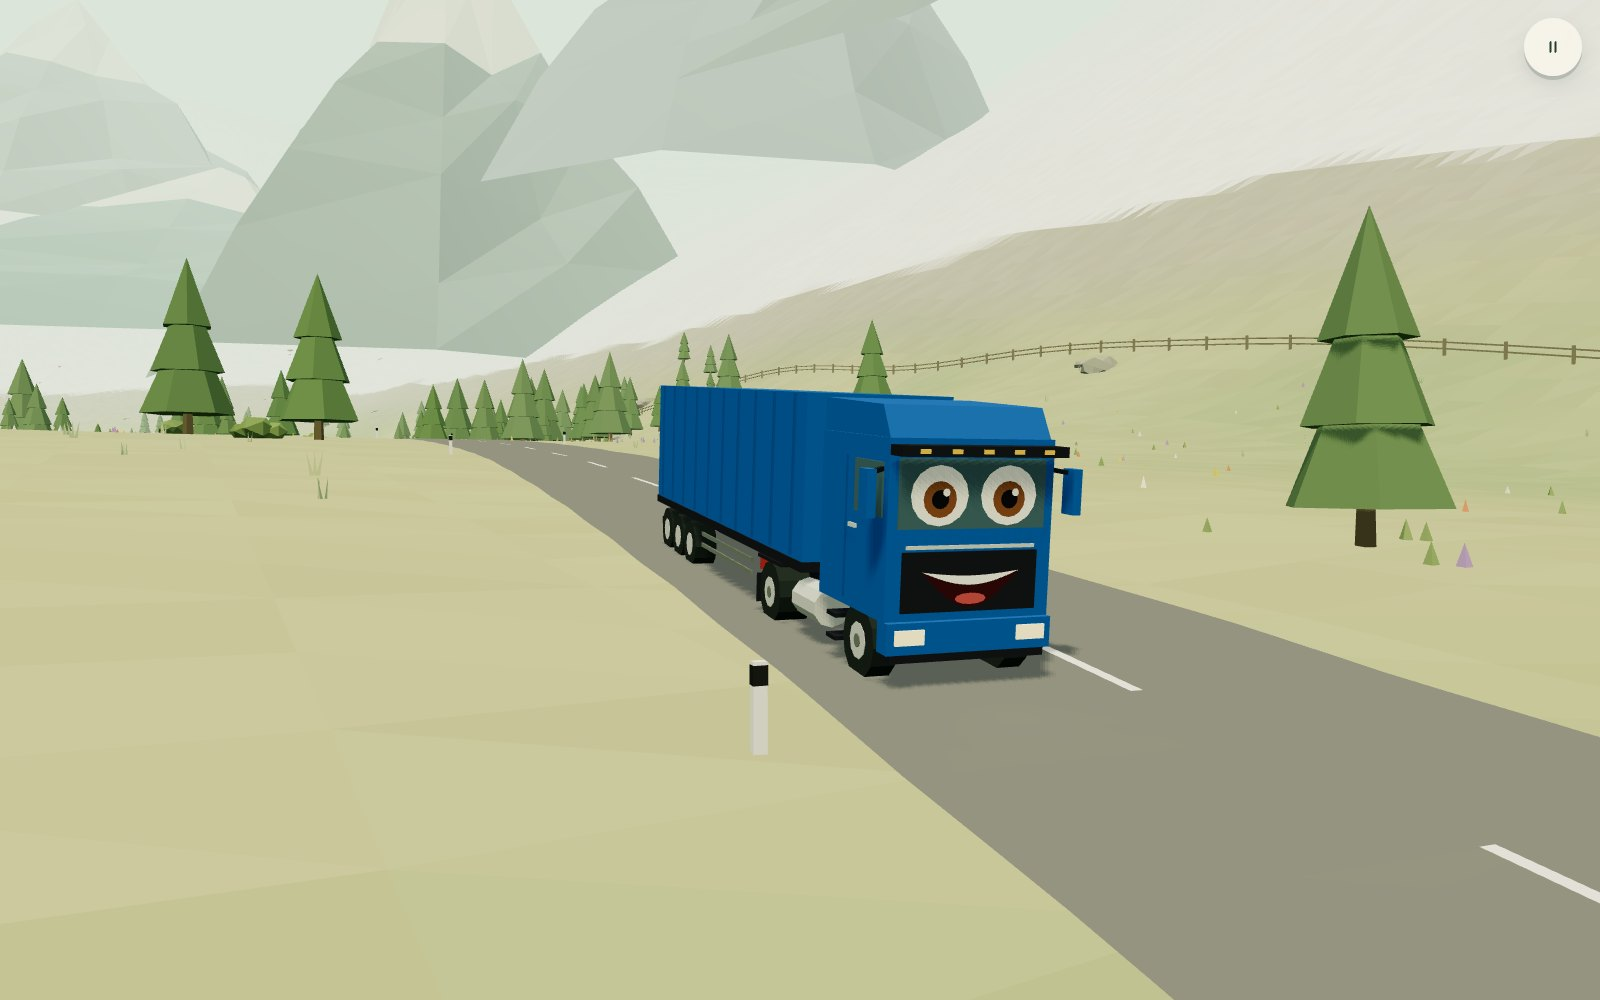
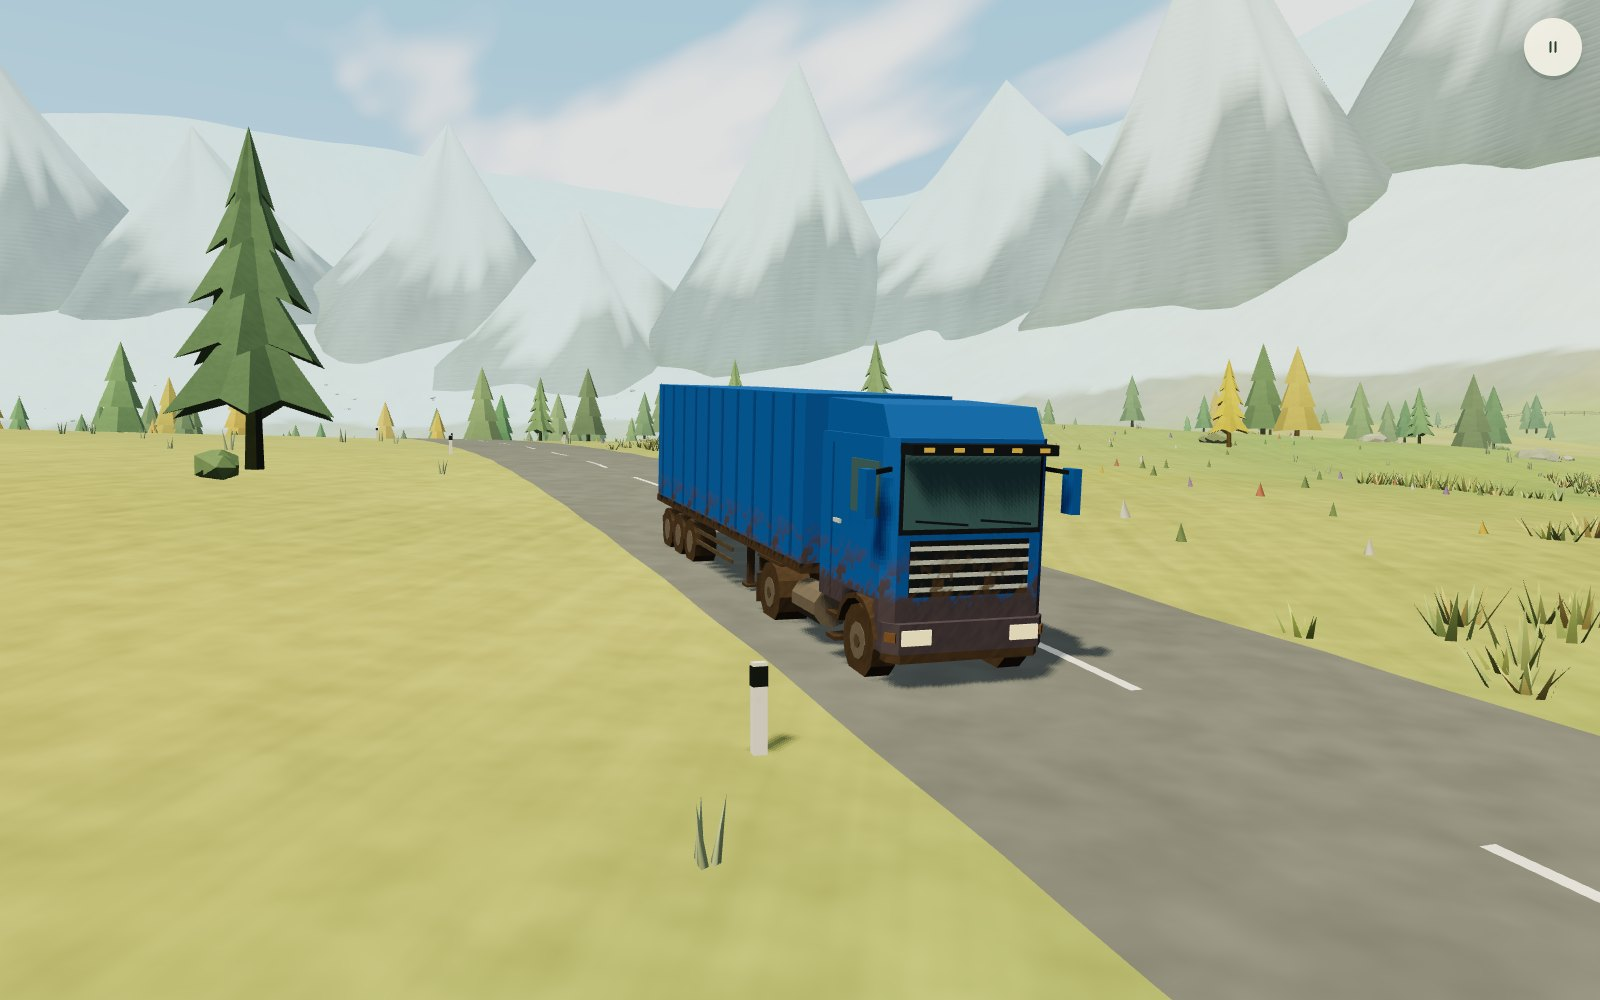
Update the README and its screenshots for the deep ford, the mud hole and the tractor, the depot, the marked trails, the cars without faces, the roadworks off the upland road and the animals that run aside

diff --git a/README.md b/README.md
@@ -39,6 +39,14 @@ Play it at [nowhere-to-be.jarkovsky.com](https://nowhere-to-be.jarkovsky.com).
   <img src="docs/combine.jpg" width="49%" alt="A combine harvester cutting the wheat at the upland farm">
 </p>
 <p>
+  <img src="docs/ford.jpg" width="49%" alt="Wading through the deep ford in the hollow, with a bow wave and a wake">
+  <img src="docs/tow.jpg" width="49%" alt="Stuck in the mud hole below the farm while the red tractor pulls the car out on a rope">
+</p>
+<p>
+  <img src="docs/depot.jpg" width="49%" alt="The depot, with an arrow over each vehicle that can come along">
+  <img src="docs/viewpoint.jpg" width="49%" alt="At the end of the blue trail the camera swings out over the lake">
+</p>
+<p>
   <img src="docs/lorry.jpg" width="49%" alt="Oliver, a blue lorry with a trailer, on the upland road">
   <img src="docs/rally.jpg" width="49%" alt="A rally car on the track up to the summit">
 </p>
@@ -63,7 +71,7 @@ Play it at [nowhere-to-be.jarkovsky.com](https://nowhere-to-be.jarkovsky.com).
 | Pause          | `Esc`                | ❚❚ button, top right               |
 | Back to start  | `R`                  | Home button in the menu            |
 
-To carry on after pausing, press the big play button or tap the game around the menu. With cruise control on, the car keeps driving by itself, so on touch screens only the pedal for braking and reversing shows.
+To carry on after pausing, press the big play button or tap the game around the menu. With cruise control on, the car keeps driving by itself, so on touch screens only the pedal for braking and reversing shows. On a tablet held sideways the steering buttons and the pedals sit halfway up each side, under the thumbs.
 
 ## Playing on a phone
 
@@ -92,9 +100,12 @@ To play on your phone from your own computer, run `npm run dev` and open the **N
   - A village in the west with a pond and a fire station, where the fire engine waits outside.
   - A horse farm and a farm with goats and pigs.
 - **The airfield.** On a plateau to the east: a runway, a hangar you can drive into, a control tower with a beacon that turns at night, and two little planes. Every few minutes one of them taxis out, takes off, flies a loop round the uplands and lands again. It waits while you are on the runway, and goes round again if you are on it when it comes in to land.
-- **Animals.** Deer, sheep, cows, chickens, a rabbit, foxes (one hunts mice by the fields), ducks, geese, an eagle, fish that jump in the lake, a pack of wolves below the summit and an owl that only comes out at night. Out in the outlands there are horses, goats and pigs at the farms, sheep above the fjord, moose, wild boar, red deer and mouflon on the rocky hill. They graze, now and then break into a run, and run off when a car comes close.
+- **Animals.** Deer, sheep, cows, chickens, a rabbit, foxes (one hunts mice by the fields), ducks, geese, an eagle, fish that jump in the lake, a pack of wolves below the summit and an owl that only comes out at night. Out in the outlands there are horses, goats and pigs at the farms, sheep above the fjord, moose, wild boar, red deer and mouflon on the rocky hill. They graze and now and then break into a run. They let a car come close, run out of its way at the last moment, and wander back once it has gone.
 - **Things on the move.** A railbus runs between the halt and a tunnel in the hills, and the level crossing closes while it passes. At the roadworks an excavator loads a dump truck while a roller, a grader and a skid steer loader work on the new road. Two tractors plough and mow the upland fields, and a combine harvester cuts the wheat. A camper van, a pickup, a saloon and a bus drive the trail, and a fuel tanker and a delivery van drive the upland road. Now and then an ambulance, a fire engine or a police car comes by with its blue lights on while the others pull over, and sometimes an army off-roader drives through. A convoy of three off-roaders with kayaks and jerrycans on their roofs drives the outer road, and another comes the other way. Kryštof, a yellow air ambulance, is based at the airfield: every few minutes it flies low along the outer road and under the rock arch, round the north and in along the fjord.
-- **Side tracks.** Narrow dirt tracks lead off the main trail to the farm, the tower, the windmill, the summit, the upland farm and up a hairpin to the hut, a path follows the lake shore, and a new road is being built to the south.
+- **Side tracks.** Narrow dirt tracks lead off the main trail to the farm, the tower, the windmill, the summit, the upland farm and up a hairpin to the hut, and a path follows the lake shore.
+- **Roadworks.** A new road is being built off the upland road, a little south of where the west road comes up: fresh asphalt from the junction, then gravel, then bare earth where the machines are working.
+- **Mud and water.** The car gets dusty off the trail and caked in mud in the puddles and the muddy stretches of the side tracks, and water and rain wash it clean. A brook runs from a spring at the foot of the northern hills, across the trail at a shallow ford and into the lake, and a track up its bank climbs over rocks that rock the car from side to side. In a hollow south of the trail, just past the start, a track goes through a deep ford where the water comes up to the doors: the car slows to a crawl, pushes a bow wave ahead of it, leaves a wake and comes out dripping.
+- **Marked trails.** Three footpaths are marked like Czech hiking trails, with a stripe of blue, green or yellow between two white ones on posts along the way. Each leaves the trail at a signpost and climbs to a viewpoint: a platform above the lake, a bench by a lone tree on a knoll, and a bench on the slope east of the lake. Stop there and the camera swings out wide over the view for a few seconds, then comes back.
 - **Marked trails.** Three footpaths are waymarked the Czech way, with a blue, a green or a yellow stripe between two white ones painted on posts beside the path every thirty metres or so and at the bends. Each starts at a signpost with an arrow where it leaves the main trail and climbs to a viewpoint: a platform on a terrace above the lake, a bench under the lone tree on the knoll south of the farm, or a bench on the slope east of the lake. Drive up to one and the camera swings out slowly to take in the view for a few seconds, then comes back behind the car. The hut's track is marked in red.
 - **The mud hole.** Below the farm, where the lane between the paddock and the wheat field runs out into the meadow, there is a deep mud hole. Drive into it and the car sinks in and gets stuck, its wheels spinning and throwing up mud. After a few seconds the farm's red tractor comes over, stops in front of the car, and pulls it out on a rope onto firm ground, then toots and drives home. The car can also creep back out in reverse before the tractor gets there.
 - **The garage.** Pick an off-roader, a pickup, a camper van, a saloon or a tractor by its picture, then a colour and roof items. There are also four characters with colours of their own: Oliver and Ruda, a blue and a red lorry that each pull a trailer, a rally car and a racing car. The lorries have a deep air horn. The roof tent opens when the car has been parked for a moment: the lid folds out as an awning on two poles and a ladder comes down beside the car.
@@ -109,7 +120,7 @@ Progress is saved in your browser.
 Everything is generated in code with [Three.js](https://threejs.org) and Web Audio. There are no model, texture or sound files.
 
 - **Terrain:** a height field built from layered noise and a few hand-placed landforms: knolls, a flat-topped hill, rocky ridges, a summit, flattened farmland and a ledge for the waterfall. Grass gives way to stony ground and then snow with height. It is fine everywhere you can drive and coarse under the distant peaks. The trails are levelled across their width, the paved and gravel roads climb no steeper than a set grade through cuttings and on banks, the railway climbs at an even grade on embankments and through a cutting, the creek, the river and the fjord are carved into the ground, and buildings sit on flattened pads, so nothing floats or sinks. Wherever a road crosses a river, it dips into the water at a ford on its own grade. Rivers, rocky ground, farms, herds and ponds are each kept in a list, so adding another is a matter of adding an entry. A test checks there are no cliffs on the valley floor.
-- **Driving:** an arcade model with real velocity, tyre grip per surface, hill slowdown and soft collisions. Each tyre is settled onto the terrain triangle beneath it, within the travel its suspension allows.
+- **Driving:** an arcade model with real velocity, tyre grip per surface, slowdown on hills and in deep water, and soft collisions. Each tyre is settled onto the terrain triangle beneath it, within the travel its suspension allows.
 - **Camera:** a spring arm that pulls in when rock comes between it and the car, so the tunnel and cliffs never swallow the view. Drag to swing it round; it drifts back behind the car when you let go.
 - **Performance:** cheap Lambert materials, merged and instanced meshes, one shadow-casting light, a 60 fps cap, no rendering while paused, and a resolution that adapts to the device. The ground is split into tiles, and tiles far from the camera are drawn with fewer, larger triangles. Trees and rocks are grouped by area so whatever is out of view is skipped, distant rocks take a simpler shape, flowers, grass and bushes are only drawn near the camera, and only what stands near the car casts shadows. So the cost of a frame depends on what is around the camera rather than on the size of the map.
 
